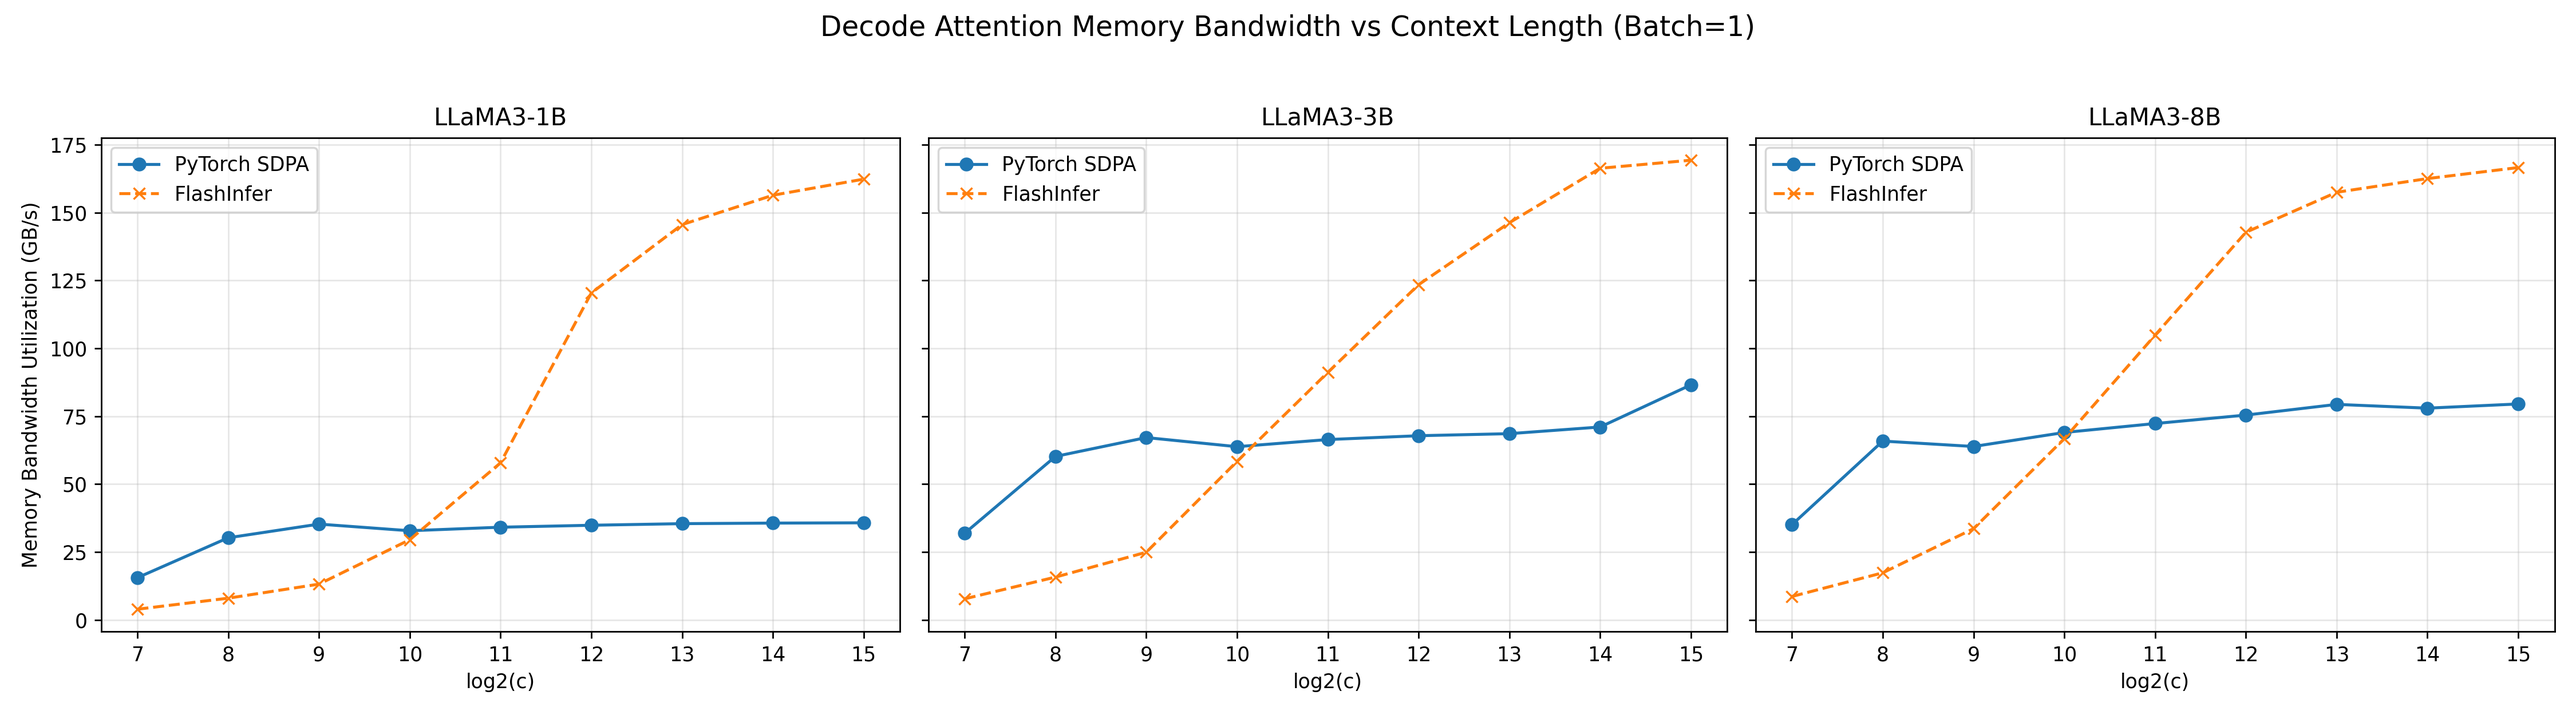
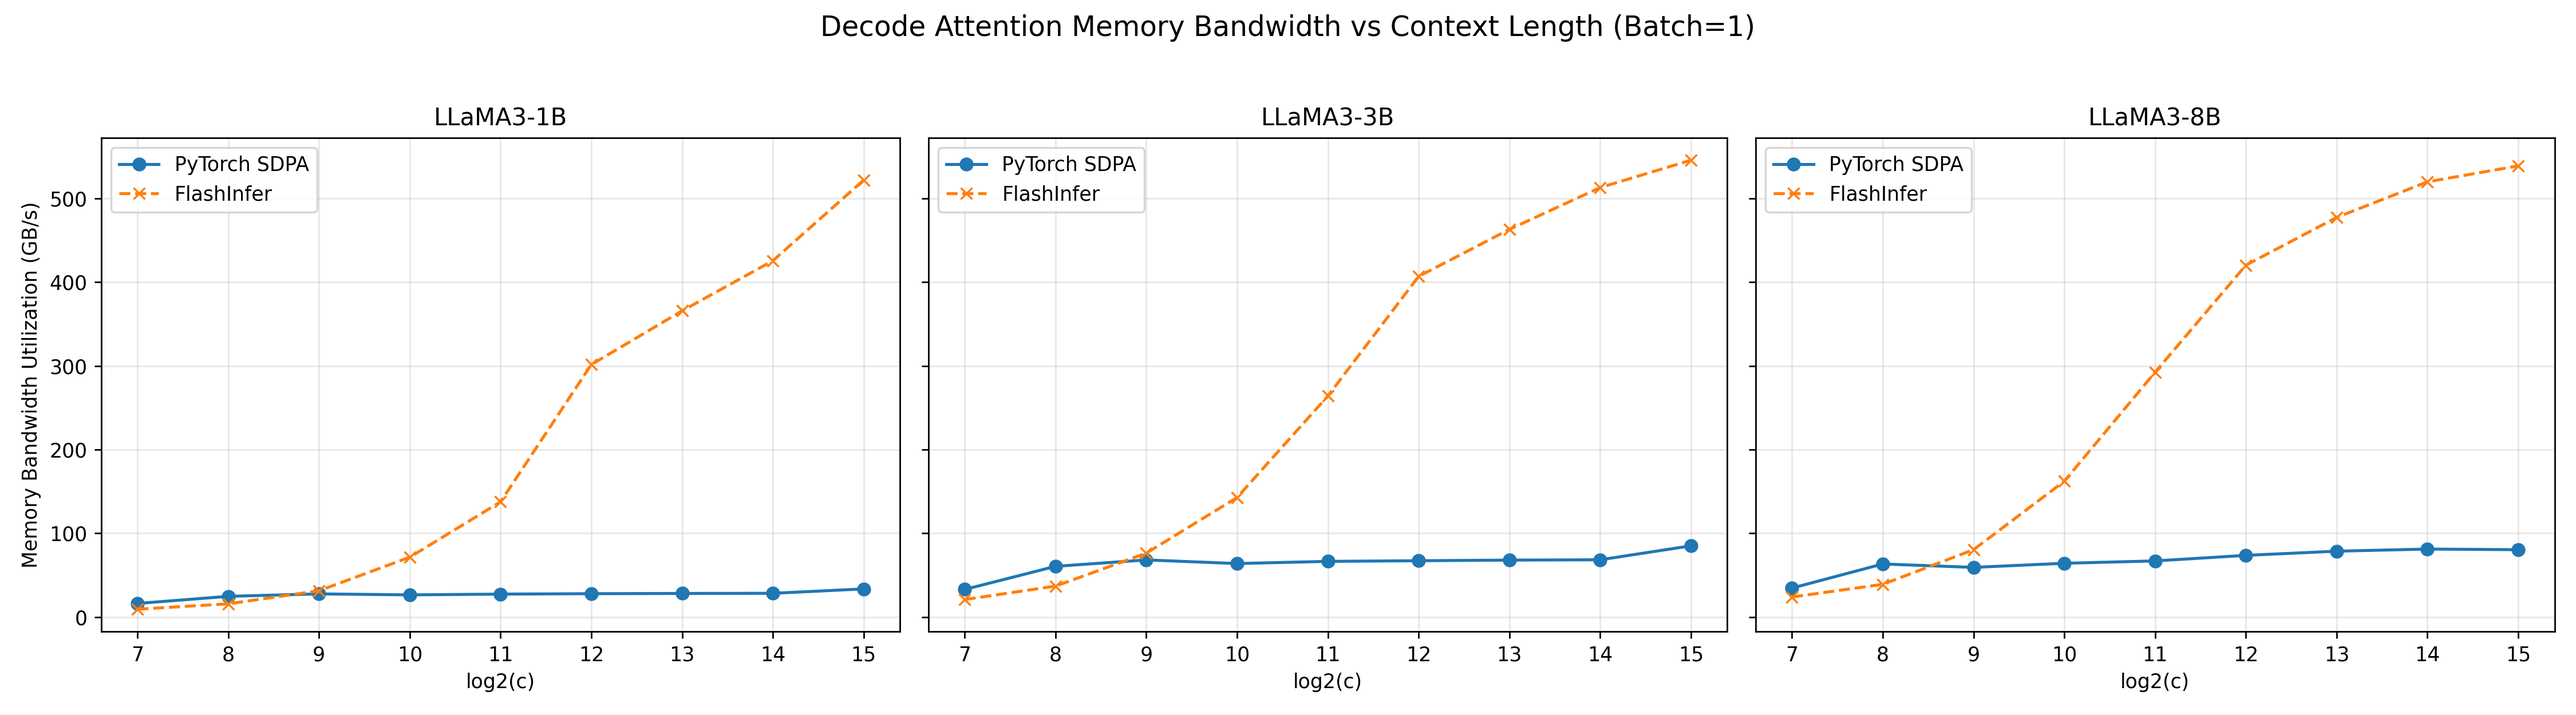
fix attn benchmark

diff --git a/assignment3/Section2/benchmark_attention.py b/assignment3/Section2/benchmark_attention.py
@@ -83,18 +83,22 @@ def bench_prefill_once(
         cfg.iters,
     )
 
-    def _run_flashinfer_prefill():
-        # flashinfer prefill expects [qo_len, num_qo_heads, head_dim] and [kv_len, num_kv_heads, head_dim]
-        # Run per batch for compatibility across API revisions.
-        for b in range(batch):
-            flashinfer.prefill.single_prefill_with_kv_cache(
-                q[b].transpose(0, 1).contiguous(),
-                k[b].transpose(0, 1).contiguous(),
-                v[b].transpose(0, 1).contiguous(),
-                causal=True,
-            )
+    # Prepare flashinfer inputs outside timing: [batch*p, h, d] (NHD layout)
+    q_fi = q.permute(0, 2, 1, 3).reshape(batch * p, h_q, d).contiguous()
+    k_fi = k.permute(0, 2, 1, 3).reshape(batch * p, h_kv, d).contiguous()
+    v_fi = v.permute(0, 2, 1, 3).reshape(batch * p, h_kv, d).contiguous()
+    qo_indptr = torch.arange(0, (batch + 1) * p, p, dtype=torch.int32, device=cfg.device)
+    kv_indptr = qo_indptr
 
-    t_flashinfer_ms = _time_cuda(_run_flashinfer_prefill, cfg.warmup, cfg.iters)
+    workspace = torch.empty(128 << 20, dtype=torch.uint8, device=cfg.device)
+    prefill_wrapper = flashinfer.BatchPrefillWithRaggedKVCacheWrapper(workspace)
+    prefill_wrapper.plan(qo_indptr, kv_indptr, h_q, h_kv, d, causal=True)
+
+    t_flashinfer_ms = _time_cuda(
+        lambda: prefill_wrapper.run(q_fi, k_fi, v_fi),
+        cfg.warmup,
+        cfg.iters,
+    )
 
     flops = 4.0 * batch * h_q * p * p * d
     sdpa_tflops = flops / (t_sdpa_ms * 1e-3) / 1e12
@@ -123,19 +127,39 @@ def bench_decode_once(
         cfg.iters,
     )
 
-    def _run_flashinfer_decode():
-        for b in range(batch):
-            flashinfer.decode.single_decode_with_kv_cache(
-                q[b, :, 0, :].contiguous(),
-                k_cache[b].transpose(0, 1).contiguous(),
-                v_cache[b].transpose(0, 1).contiguous(),
-                kv_layout="NHD",
-                pos_encoding_mode="NONE",
-            )
+    # Prepare flashinfer paged KV cache outside timing
+    pages_per_seq = (c + page_size - 1) // page_size
+    last_pg = c - (pages_per_seq - 1) * page_size
+    # k_cache: [batch, h_kv, c, d] -> [batch*pages_per_seq, 2, page_size, h_kv, d]
+    k_paged = k_cache.permute(0, 2, 1, 3).reshape(batch, pages_per_seq, page_size, h_kv, d)
+    v_paged = v_cache.permute(0, 2, 1, 3).reshape(batch, pages_per_seq, page_size, h_kv, d)
+    kv_paged = torch.stack([k_paged, v_paged], dim=2).reshape(
+        batch * pages_per_seq, 2, page_size, h_kv, d
+    ).contiguous()
 
-    t_flashinfer_ms = _time_cuda(_run_flashinfer_decode, cfg.warmup, cfg.iters)
+    q_fi = q[:, :, 0, :].contiguous()  # [batch, h_q, d]
+    indptr = torch.arange(
+        0, (batch + 1) * pages_per_seq, pages_per_seq, dtype=torch.int32, device=cfg.device
+    )
+    indices = torch.arange(batch * pages_per_seq, dtype=torch.int32, device=cfg.device)
+    last_page_len = torch.full((batch,), last_pg, dtype=torch.int32, device=cfg.device)
 
-    bytes_moved = 2.0 * batch * c * h_kv * d * elem_size / max(page_size, 1)
+    workspace = torch.empty(128 << 20, dtype=torch.uint8, device=cfg.device)
+    decode_wrapper = flashinfer.BatchDecodeWithPagedKVCacheWrapper(workspace)
+    decode_wrapper.plan(
+        indptr, indices, last_page_len,
+        h_q, h_kv, d, page_size,
+        pos_encoding_mode="NONE",
+        data_type=cfg.dtype,
+    )
+
+    t_flashinfer_ms = _time_cuda(
+        lambda: decode_wrapper.run(q_fi, kv_paged),
+        cfg.warmup,
+        cfg.iters,
+    )
+
+    bytes_moved = 2.0 * batch * c * h_kv * d * elem_size
     sdpa_gbps = bytes_moved / (t_sdpa_ms * 1e-3) / 1e9
     flashinfer_gbps = bytes_moved / (t_flashinfer_ms * 1e-3) / 1e9
     return sdpa_gbps, flashinfer_gbps
